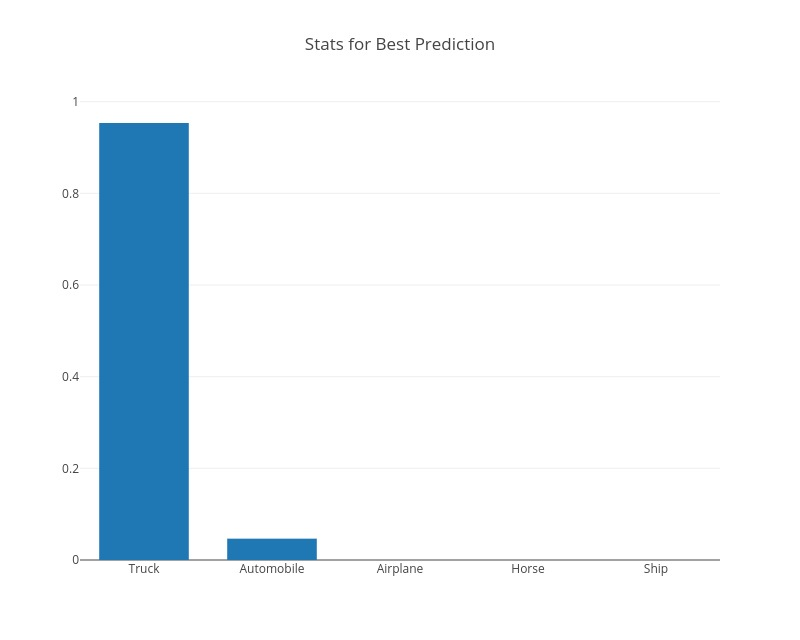
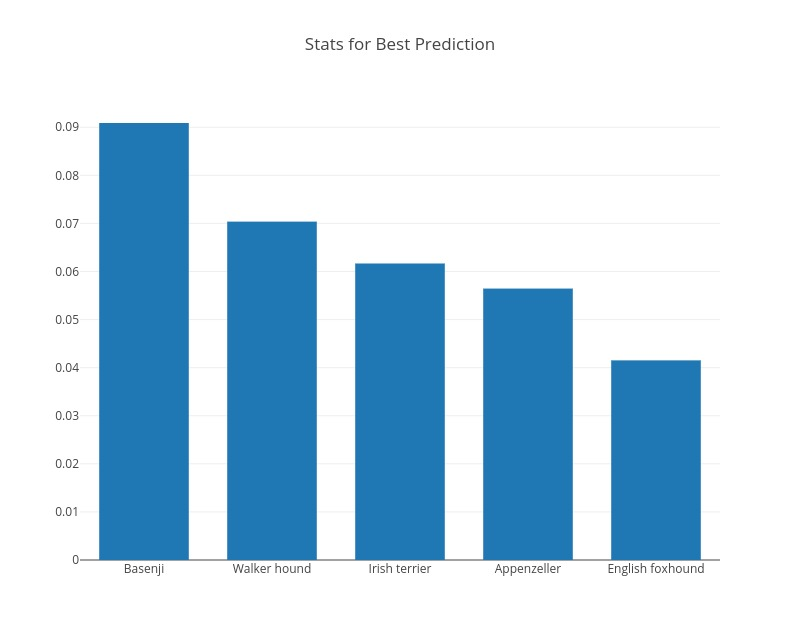
prediction fix, picture modify through mouse click

diff --git a/main_interface.py b/main_interface.py
@@ -19,7 +19,8 @@ from nets import inception
 from preprocessing import inception_preprocessing
 
 session = tf.Session()
-image_size = 32 #the size of the CIFAR-10 images shall be 32x32, so all input should be converted into this size
+# image_size = 32 #the size of the CIFAR-10 images shall be 32x32, so all input should be converted into this size
+image_size = 299
 
 def transform_img_fn(path_list):
 	out = []
@@ -30,17 +31,30 @@ def transform_img_fn(path_list):
 		out.append(image)
 	return session.run([out])[0]
 
-names = cf.build_dictionary_for_cifar10_image()
+from datasets import imagenet
+names = imagenet.create_readable_names_for_imagenet_labels()
+# names = cf.build_dictionary_for_cifar10_image()
 
-processed_images = tf.placeholder(tf.float32, shape = (None, 32, 32, 3))
+processed_images = tf.placeholder(tf.float32, shape = (None, 299, 299, 3))
 
-logits, _, _, _ = model.conv_cifar10(processed_images)
+# logits, _, _, _ = model.conv_cifar10(processed_images)
+# probabilities = tf.nn.softmax(logits)
+
+# saver = tf.train.Saver()
+
+# checkpoints_dir = "./pretrained/cifar10_model.ckpt"
+# saver.restore(session, "./pretrained/cifar10_model.ckpt")
+
+import os
+with slim.arg_scope(inception.inception_v3_arg_scope()):
+    logits, _ = inception.inception_v3(processed_images, num_classes=1001, is_training=False)
 probabilities = tf.nn.softmax(logits)
 
-saver = tf.train.Saver()
-
-checkpoints_dir = "./pretrained/cifar10_model.ckpt"
-saver.restore(session, "./pretrained/cifar10_model.ckpt")
+checkpoints_dir = '/usr/local/lib/python3.5/dist-packages/tensorflow/models/research/slim/pretrained'
+init_fn = slim.assign_from_checkpoint_fn(
+    os.path.join(checkpoints_dir, 'inception_v3.ckpt'),
+    slim.get_model_variables('InceptionV3'))
+init_fn(session)
 
 def predict_fn(images):
 	return session.run(probabilities, feed_dict={processed_images: images})
@@ -85,12 +99,12 @@ if init == '0' or init == '':
 	print("proceeding")
 
 patient_info = [[], [], [], [], [], []]
-patient_info[0] += ["Andy Williams", "Bivan Harmanto", "Choi Seungmin"]
-patient_info[1] += ["Male", "Male", "Male"]
-patient_info[2] += [35, 22, 27]
-patient_info[3] += ["AB Positive", "O Positive", "B Negative"]
-patient_info[4] += ["Professor", "Software Engineer", "Counsellor"]
-patient_info[5] += ["American", "Indonesian", "Korean"]
+patient_info[0] += ["Andy Williams", "Bivan Harmanto", "Choi Seungmin", "Alberta Scrubb", "Alisa Kurt", "Kim Eunhye"]
+patient_info[1] += ["Male", "Male", "Male", "Female", "Female", "Female"]
+patient_info[2] += [35, 22, 27, 50, 19, 21]
+patient_info[3] += ["AB Positive", "O Positive", "B Negative", "A Positive", "B Positive", "O Negative"]
+patient_info[4] += ["Professor", "Software Engineer", "Counsellor", "Housewife", "Chief Operating Officer", "Student"]
+patient_info[5] += ["American", "Indonesian", "Korean", "British", "Germanese", "Korean"]
 
 class Window(Frame):
 
@@ -118,6 +132,8 @@ class Window(Frame):
 		self.text_bool = True
 		self.explain_bool = True
 
+		self.sp_finish = False
+		self.list_sp_outcast = []
 		self.segments = None
 
 		self.is_doctor = 0
@@ -159,7 +175,7 @@ class Window(Frame):
 		top = self.top = Toplevel(bg = "white")
 		top.title("List of Patients")
 
-		top.geometry("300x300")
+		top.geometry("300x500")
 
 		button_1 = Button(top, text = "Patient #1\nAndy Williams", font = ('Helvetica', '11'), command = lambda: self.checkScreen(pd_info = pd_info, identity = 0), bg = "salmon", height = 3)
 		button_1.pack(fill = X)
@@ -169,6 +185,15 @@ class Window(Frame):
 
 		button_3 = Button(top, text = "Patient #3\nChoi Seungmin", font = ('Helvetica', '11'), command = lambda: self.checkScreen(pd_info = pd_info, identity = 2), bg = "salmon", height = 3)
 		button_3.pack(fill = X)
+
+		button_4 = Button(top, text = "Patient #4\nAlberta Scrubb", font = ('Helvetica', '11'), command = lambda: self.checkScreen(pd_info = pd_info, identity = 3), bg = "turquoise", height = 3)
+		button_4.pack(fill = X)
+
+		button_5 = Button(top, text = "Patient #5\nAlisa Kurt", font = ('Helvetica', '11'), command = lambda: self.checkScreen(pd_info = pd_info, identity = 4), bg = "salmon", height = 3)
+		button_5.pack(fill = X)
+
+		button_6 = Button(top, text = "Patient #6\nKim Eunhye", font = ('Helvetica', '11'), command = lambda: self.checkScreen(pd_info = pd_info, identity = 5), bg = "turquoise", height = 3)
+		button_6.pack(fill = X)
 
 		quitbutton = Button(top, text = "Quit", command = self.quitPatient, bg = "red")
 		quitbutton.pack(fill = X)
@@ -362,8 +387,9 @@ class Window(Frame):
 		#do the calculation for the prediction towards the image, using pretrained model
 		path_name = str(id_) + '_medinfo.jpg'
 		images = transform_img_fn([path_name])
+		self.transformed_image = images[0]
 
-		return predict_fn(images), images[0]
+		return predict_fn(images), self.transformed_image
 
 	###################################################################################
 	####### BEGIN : Managing the button functionality for the complex interface #######
@@ -565,9 +591,7 @@ class Window(Frame):
 
 		#Step 2 : Get the explanation for the prediction
 		explainer = lime_image.LimeImageExplainer()
-
 		explanation, segments = explainer.explain_instance_and_get_segments(prediction[1], predict_fn, top_labels = 5, hide_color = 0, num_samples = 1000)
-
 		temp, _ = explanation.get_image_and_mask(id_list[0], positive_only = False, num_features = 100, hide_rest = False)
 
 		# img_save = mark_boundaries(image = temp / 2 + 0.5, label_img = mask)
@@ -598,7 +622,7 @@ class Window(Frame):
 			top = self.top_picture = Toplevel(bg = "grey")
 			top.title("Editing the Picture")
 
-			top.geometry("300x300")
+			top.geometry("300x330")
 
 			canvas = Canvas(self.top_picture, width = 300, height = 300)
 			canvas.pack(expand = YES, fill = BOTH)
@@ -608,11 +632,38 @@ class Window(Frame):
 
 			canvas.image = img
 
+			finishbutton = Button(top, text = "Finish the Superpixel Choose", command = self.togglefinish)
+			finishbutton.place(x = 0, y = 300)
+			finishbutton.pack(fill = X)
+
 			canvas.create_image(0, 0, image = img, anchor = "nw")
 			canvas.bind("<Button 1>", self.printcoords)
 
 	def printcoords(self, event):
-		print("Superpixel number #" + str(self.segments[event.y, event.x]))
+		#to create the image that responds to the click of the mouse button
+		if not self.sp_finish:
+			takeout_area = self.segments[event.y, event.x]
+			if takeout_area not in self.list_sp_outcast:
+				self.list_sp_outcast.append(takeout_area)
+			print("Superpixel number #" + str(self.segments[event.y, event.x]))
+
+		else:
+			print("already finish choosing the superpixel")	
+
+	def togglefinish(self):
+		self.sp_finish = True
+
+		result_image = np.zeros(np.shape(self.transformed_image))
+		copied_image = self.transformed_image / 2 + 0.5
+
+		print(self.list_sp_outcast)
+		for width in range(len(result_image)):
+			for height in range(len(result_image[0])):
+				if self.segments[width, height] not in self.list_sp_outcast:
+					result_image[width, height] = copied_image[width, height].copy()
+
+		name_file = input("Put the name of the modified file below\n")
+		plt.imsave(fname = name_file + ".jpeg", arr = result_image)
 
 	####################################################################
 	#BEGIN Button 7 : Showing the operation for switching and quitting
